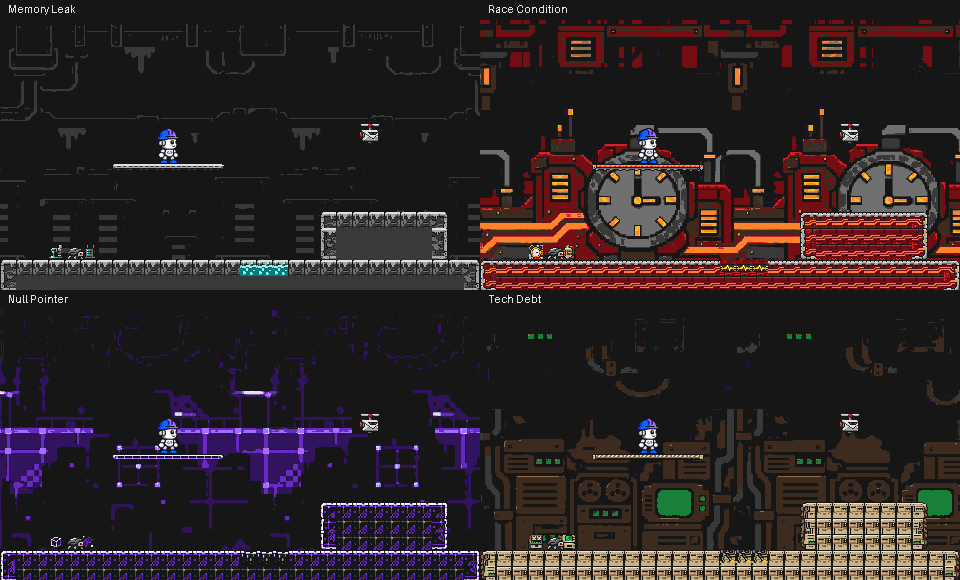
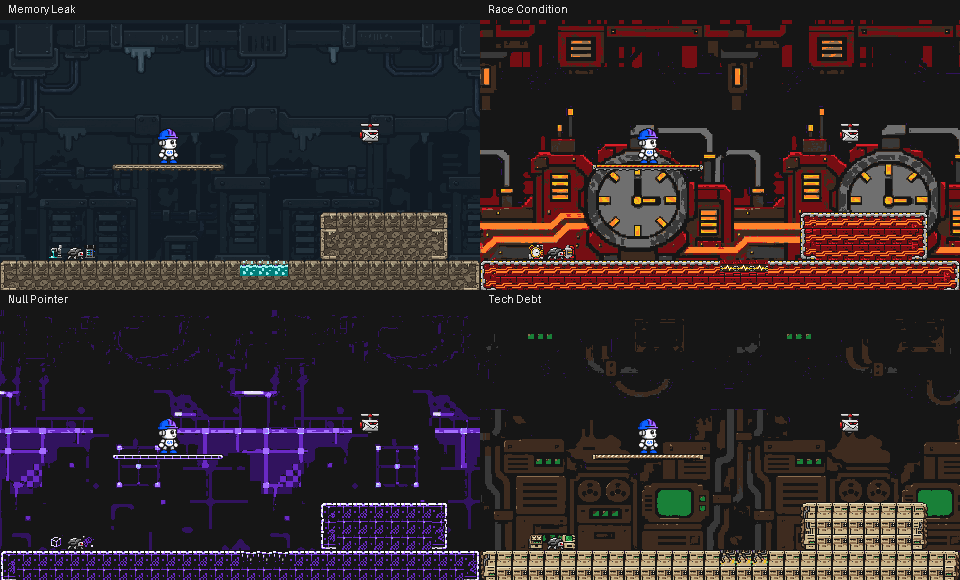
fix: restore T1 textures with a cool-warm palette (T21)
Replace the rejected flattening with injective color maps: blue-grey scenery, warm metal and unchanged teal hazards. Restore the original texture patterns and guard every tile and layer against tone merging or painted edges. Keep other stages, boss fixes and gameplay intact.

diff --git a/tools/review_memory_palette.py b/tools/review_memory_palette.py
@@ -1,0 +1,75 @@
+"""Compare T1 color topology with its textured baseline, then export palette review."""
+import io
+import json
+from pathlib import Path
+import subprocess
+
+from PIL import Image, ImageOps
+from memory_colors import BACKGROUND, METAL, MEMORY_PALETTE
+from sprites import pixels
+from ui_art import INK, ui_text
+
+ROOT = Path(__file__).resolve().parents[1]
+BASELINE = 'f4eb18a'  # Last committed T1 art before the rejected texture flattening.
+
+
+def signature(image):
+    ids = {}
+    return [ids.setdefault(pixel, len(ids)) for pixel in pixels(image)]
+
+
+def hex_color(rgb):
+    return '#' + ''.join(f'{c:02X}' for c in rgb)
+
+
+def run():
+    paths = sorted((ROOT / 'public/assets/bg').glob('t1_memory_leak_*.png'))
+    paths.append(ROOT / 'public/assets/tiles/tiles_memory_leak.png')
+    entries = []
+    for path in paths:
+        relative = path.relative_to(ROOT).as_posix()
+        original = subprocess.check_output(['git', 'show', BASELINE + ':' + relative], cwd=ROOT)
+        old, new = Image.open(io.BytesIO(original)).convert('RGBA'), Image.open(path).convert('RGBA')
+        if old.size != new.size or old.getchannel('A').tobytes() != new.getchannel('A').tobytes():
+            raise ValueError(relative + ': image geometry changed')
+        count = 24 if path.parent.name == 'tiles' else 1
+        for i in range(count):
+            width = 16 if count == 24 else new.width
+            box = (i * width, 0, (i + 1) * width, new.height)
+            if signature(old.crop(box)) != signature(new.crop(box)):
+                raise ValueError(f'{relative}[{i}]: texture pattern changed')
+        colors = {p[:3] for p in pixels(new) if p[3]}
+        if not colors <= MEMORY_PALETTE:
+            raise ValueError(relative + ': undeclared local color')
+        if count == 24:
+            if old.crop((256, 0, 272, 16)).tobytes() != new.crop((256, 0, 272, 16)).tobytes():
+                raise ValueError('Hazard pixels changed')
+        elif new.crop((0, 0, 1, new.height)).tobytes() != new.crop((511, 0, 512, new.height)).tobytes():
+            raise ValueError(relative + ': seam mismatch')
+        entries.append(dict(file=relative, colors=len(colors), texturePatternPreserved=True, alphaUnchanged=True))
+    export = ROOT / 'art/exports'
+    report = dict(stage='memoryLeak', textureBaselineCommit=BASELINE,
+                  texturePatternPreserved=True, checkedRegions=30, hazardPixelsUnchanged=True,
+                  roles=dict(background='blue-grey', metal='warm neutral', hazard='original teal'),
+                  palettePolicy='Local T1 color maps; default palette and other stages unchanged.',
+                  backgroundMapping={hex_color(a): hex_color(b) for a, b in BACKGROUND.items()},
+                  metalMapping={hex_color(a): hex_color(b) for a, b in METAL.items()}, layers=entries)
+    (export / 'memory-color-profile.json').write_text(json.dumps(report, indent=2) + '\n', encoding='utf-8')
+    comparison = Image.new('RGBA', (960, 580), INK)
+    for row, key in enumerate(['entrance', 'shaft']):
+        for col, version in enumerate(['before', 'after']):
+            capture = ROOT / ('art/preview/memory-contrast-' + version) / (key + '.png')
+            image = Image.open(capture).convert('RGBA').resize((480, 270), Image.Resampling.NEAREST)
+            x, y = col * 480, row * 290
+            label = ('VERSÃO REJEITADA' if col == 0 else 'TEXTURA RESTAURADA') + ' / ' + ('ENTRADA' if row == 0 else 'POÇO')
+            ui_text(comparison, (x + 8, y + 4), label, 10)
+            comparison.alpha_composite(image, (x, y + 20))
+            if row == 0 and col == 1:
+                image.save(export / 'megabob-memory-palette.png')
+    comparison.save(export / 'megabob-memory-contrast.png')
+    ImageOps.grayscale(comparison.convert('RGB')).save(export / 'megabob-memory-contrast-gray.png')
+    print('7 textures / 30 regions preserve the original texture pattern and alpha; comparisons exported.')
+
+
+if __name__ == '__main__':
+    run()

diff --git a/tools/memory_colors.py b/tools/memory_colors.py
@@ -1,11 +1,29 @@
-"""Memory Leak color roles: quiet scenery, steel contact edges, teal hazards."""
+"""Texture-preserving local palettes: blue-grey depth, warm metal, original teal hazards."""
+from palette import PALETTE
 from sprites import pixels
 
-INK = (22, 22, 22)
-SHADE = (57, 57, 57)
-STEEL = (111, 111, 111)
-LIGHT = (168, 168, 168)
-EDGE = (224, 224, 224)
+
+def color_map(warm=False):
+    """Keep every source tone distinct; never merge texture classes by brightness."""
+    result, used = {}, set()
+    for r, g, b in PALETTE:
+        light = .2126 * r + .7152 * g + .0722 * b
+        if warm:
+            color = (round(34 + .73 * light + .04 * r), round(28 + .68 * light + .03 * g),
+                     round(23 + .56 * light + .025 * b))
+        else:
+            color = (round(12 + .22 * light + .025 * r), round(20 + .26 * light + .025 * g),
+                     round(28 + .28 * light + .025 * b))
+        while color in used:
+            color = (color[0], color[1], color[2] + 1)
+        result[(r, g, b)] = color
+        used.add(color)
+    return result
+
+
+BACKGROUND = color_map()
+METAL = color_map(warm=True)
+MEMORY_PALETTE = set(PALETTE) | set(BACKGROUND.values()) | set(METAL.values())
 
 
 def luminance(rgb):
@@ -13,36 +31,20 @@ def luminance(rgb):
     return sum(c * weight for c, weight in zip(values, (.2126, .7152, .0722)))
 
 
-def background_color(rgb):
-    light = luminance(rgb)
-    return INK if light < .09 else SHADE
-
-
-def quiet_memory_layer(image):
+def recolor(image, colors):
     result = image.convert('RGBA').copy()
-    result.putdata([(*background_color((r, g, b)), a) for r, g, b, a in pixels(result)])
+    result.putdata([(*colors[(r, g, b)], a) if a else (r, g, b, a) for r, g, b, a in pixels(result)])
     return result
 
 
+def quiet_memory_layer(image):
+    return recolor(image, BACKGROUND)
+
+
 def memory_tiles(image):
-    """Color-only changes: preserve every alpha pixel and all frame indices."""
+    """One-to-one recoloring of existing pixels; no fills, new stripes or smoothing."""
     result = image.convert('RGBA').copy()
     for index in list(range(16)) + [17]:
-        for y in range(16):
-            for x in range(16):
-                r, g, b, a = image.getpixel((index * 16 + x, y))
-                if not a:
-                    continue
-                if index == 17:
-                    color = INK  # Background-wall stamps must not compete with platforms.
-                elif index == 1:
-                    color = SHADE  # Collapse the high-contrast repeated fill pattern.
-                else:
-                    value = luminance((r, g, b))
-                    color = INK if value < .012 else SHADE if value < .09 else STEEL if value < .3 else LIGHT
-                    if index in (0, 2, 3, 4, 5, 12, 13, 14) and y < 2:
-                        color = EDGE
-                    elif index == 15 and x in (0, 15):
-                        color = STEEL
-                result.putpixel((index * 16 + x, y), (*color, a))
+        box = (index * 16, 0, (index + 1) * 16, 16)
+        result.paste(recolor(image.crop(box), BACKGROUND if index == 17 else METAL), box[:2])
     return result

diff --git a/tools/test_memory_colors.py b/tools/test_memory_colors.py
@@ -1,28 +1,38 @@
 """Protect visual color roles and collision-independent sprite geometry."""
 import unittest
 from PIL import Image
-from memory_colors import quiet_memory_layer, memory_tiles, luminance, SHADE, EDGE
+from memory_colors import quiet_memory_layer, memory_tiles
+from palette import PALETTE
 from sprites import pixels
 
 
+def signature(image):
+    """Color-independent spatial pattern: equal input pixels must remain equal."""
+    ids = {}
+    return [ids.setdefault(pixel, len(ids)) for pixel in pixels(image)]
+
+
 class MemoryColorsTests(unittest.TestCase):
-    def test_scenery_cannot_reuse_bright_teal_hazard_or_bob_blue(self):
-        source = Image.new('RGBA', (3, 1))
-        source.putdata([(8, 189, 186, 255), (15, 98, 254, 255), (22, 22, 22, 0)])
+    def test_scenery_preserves_every_texture_tone_and_alpha(self):
+        source = Image.new('RGBA', (len(PALETTE), 2))
+        source.putdata([(*rgb, 255) for rgb in PALETTE] * 2)
+        source.putpixel((1, 1), (0, 0, 0, 0))
         result = quiet_memory_layer(source)
         self.assertEqual(result.getchannel('A').tobytes(), source.getchannel('A').tobytes())
-        self.assertTrue(all(luminance(pixel[:3]) <= luminance(SHADE) for pixel in pixels(result)))
-        self.assertGreater((luminance(EDGE) + .05) / (luminance(SHADE) + .05), 8)
+        self.assertEqual(signature(result), signature(source))
+        self.assertTrue(all(b > r for r, g, b, a in pixels(result) if a))
 
-    def test_fill_is_quiet_but_hazard_pixels_and_tile_alpha_are_exact(self):
-        source = Image.new('RGBA', (384, 16), (8, 189, 186, 255))
+    def test_every_tile_keeps_its_texture_without_painting_new_edges(self):
+        source = Image.new('RGBA', (384, 16))
+        source.putdata([(*PALETTE[i % len(PALETTE)], 255) for i in range(384 * 16)])
         source.putpixel((5, 5), (0, 0, 0, 0))
-        source.putpixel((18, 3), (224, 224, 224, 255))
         result = memory_tiles(source)
         self.assertEqual(result.getchannel('A').tobytes(), source.getchannel('A').tobytes())
-        self.assertEqual(set(pixels(result.crop((16, 0, 32, 16)))), {(*SHADE, 255)})
+        for i in range(24):
+            box = (i * 16, 0, (i + 1) * 16, 16)
+            self.assertEqual(signature(result.crop(box)), signature(source.crop(box)), f'tile {i}')
         self.assertEqual(result.crop((256, 0, 272, 16)).tobytes(), source.crop((256, 0, 272, 16)).tobytes())
-        self.assertEqual(result.getpixel((0, 0)), (*EDGE, 255))
+        self.assertTrue(all(r > b for r, g, b, a in pixels(result.crop((16, 0, 32, 16))) if a))
 
 
 if __name__ == '__main__':

diff --git a/tools/art.py b/tools/art.py
@@ -217,7 +217,7 @@ def backgrounds():
             key = source.stem[:-3].lower() + '_' + name
             entries.append(save_asset(layer, 'bg', key, (512, 224), source.relative_to(RAW).as_posix(),
                                       edgeMismatchBefore=before, edgeMismatchAfter=0,
-                                      **({'colorRoles': 'memory-steel-teal'} if stage == 'memory_leak' else {})))
+                                      **({'colorRoles': 'memory-cool-warm-textured'} if stage == 'memory_leak' else {})))
             layers.append(layer)
             wide = extend_view(layer, name)
             depth_adjusted = stage == 'tech_debt' and name != 'far'
@@ -228,7 +228,7 @@ def backgrounds():
             entries.append(save_asset(wide, 'bg', key + '_wide', (512, 270), source.relative_to(RAW).as_posix(),
                                       edgeMismatchBefore=0, edgeMismatchAfter=0, extendedFrom=key,
                                       anchor='top' if name == 'near' else 'bottom', depthAdjusted=depth_adjusted,
-                                      **({'colorRoles': 'memory-steel-teal'} if stage == 'memory_leak' else {})))
+                                      **({'colorRoles': 'memory-cool-warm-textured'} if stage == 'memory_leak' else {})))
             wide_layers.append(wide)
         repeat = Image.new('RGBA', (1024, 672), (25, 25, 34, 255))
         for i, layer in enumerate(layers):
@@ -364,7 +364,7 @@ def run(group='all'):
         if item.get('frame_fit'):
             entry['frameSizing'] = item['frame_fit']
         if item['key'] == 'tiles_memory_leak':
-            entry['colorRoles'] = 'memory-steel-teal'
+            entry['colorRoles'] = 'memory-cool-warm-textured'
         if item.get('top_frames'):
             entry['topAlignedFrames'] = item['top_frames']
         entries.append(entry)

diff --git a/docs/art-pipeline.md b/docs/art-pipeline.md
@@ -96,9 +96,11 @@ As doze camadas originais continuam em 512×224. Cada uma ganhou a variante de c
 
 ### Contraste da primeira fase
 
-`tools/memory_colors.py` aplica a hierarquia solicitada para Memory Leak: cenário em `#161616`/`#393939`, interiores de blocos em cinza uniforme e bordas de contato em `#E0E0E0`. Paredes decorativas perdem o padrão repetido de alto contraste. O verde-água dos perigos e ataques fica reservado aos elementos ativos; o quadro 16 do lodo mantém exatamente seus pixels anteriores. O remapeamento é feito depois da normalização, somente nas seis camadas T1 e em `tiles_memory_leak`, sem mudar dimensões, alpha, índices, colisões, outras fases ou fontes brutas. O manifesto registra `colorRoles: memory-steel-teal`.
+**Preservar a textura é requisito do usuário.** A primeira tentativa, que achatava o fundo e o interior dos blocos, foi rejeitada. `tools/memory_colors.py` agora usa mapas de cor bijetivos: azul acinzentado no fundo, metal quente nas superfícies e verde-água original nos perigos. Cada tom de entrada continua distinto; não se pintam faixas novas, não se preenchem regiões e não se suavizam detalhes. O quadro 16 do lodo permanece idêntico. A alteração atinge somente as seis camadas T1 e `tiles_memory_leak`; dimensões, alpha, índices, colisões, outras fases e fontes brutas são preservados. O manifesto registra `colorRoles: memory-cool-warm-textured`.
 
-Comparações da entrada e do poço: `art/exports/megabob-memory-contrast.png` e a versão `-gray.png`. Perfil medido em `memory-color-profile.json`: bordas claras têm razão de luminância de 8,75 para o tom mais claro do fundo. É uma medida da separação da arte, não uma certificação de acessibilidade. As quatro amostras reais (entrada, plataformas, poço e sala do chefe) podem ser capturadas em uma sessão isolada com `node tools/check-assets.mjs http://127.0.0.1:5173 --stage-colors=after`; `before` registra a referência antes de uma nova alteração. As capturas ficam em `art/preview/memory-contrast-{before,after}/` e não representam uma partida completa.
+As paletas locais ficam em `memory_colors.py`, sem ampliar os candidatos da quantização padrão nem afetar as outras fases. T1 usa 2/16/17 cores visíveis nas camadas FAR/MID/NEAR e 32 no strip de tiles completo (33 entradas contando transparência). O limite padrão de 29 continua nos demais assets. `py -3 tools/review_memory_palette.py` compara as assinaturas espaciais das 30 regiões com o commit `f4eb18a`, anterior ao achatamento: cores podem mudar, mas todos os padrões de pixels devem permanecer. O relatório `art/exports/memory-color-profile.json` inclui os mapas de cor e as verificações; o QA do pack está em `art/preview/gamedev_memory_palette_report.json`.
+
+Comparações da versão rejeitada com a restauração: `art/exports/megabob-memory-contrast.png` e a versão `-gray.png`; captura nativa atual em `megabob-memory-palette.png`. As quatro amostras reais (entrada, plataformas, poço e sala do chefe) são capturadas com `node tools/check-assets.mjs http://127.0.0.1:5173 --stage-colors=after`; `before` registra a referência antes da alteração. As capturas ficam em `art/preview/memory-contrast-{before,after}/`; o script de revisão precisa dessas capturas para regenerar a comparação e não representa uma partida completa.
 
 ### Sprites e apresentação dos chefes
 
@@ -108,7 +110,7 @@ O Memory Leak implementado estava preso no quadro 0. `src/systems/memoryLeakArt.
 
 Cinco testes unitários cobrem os quadros por estado. O helper `tools/check-boss-art.mjs` reproduziu as falhas antes da correção e confirmou os quadros 0–5, dano no 6 e a reutilização de bolhas/poças no Phaser. Relatório e screenshot em `art/preview/boss-art-runtime-report.json` / `browser-boss-memory-leak.png`; a cena de QA é descartável e não modifica o mapa jogável.
 
-O fundo magenta é removido com tolerância, preservando roxos e branco. Os strips usam alpha binário, nearest-neighbor e a paleta de `tools/palette.py`. Cada animação mantém uma escala compartilhada e a ancoragem declarada. Quadros vazios intencionais mantêm seus índices; vazios inesperados e recortes que excedam o quadro são erros.
+O fundo magenta é removido com tolerância, preservando roxos e branco. Os strips usam alpha binário, nearest-neighbor e a paleta padrão de `tools/palette.py`, com os mapas locais de T1 descritos acima. Cada animação mantém uma escala compartilhada e a ancoragem declarada. Quadros vazios intencionais mantêm seus índices; vazios inesperados e recortes que excedam o quadro são erros.
 
 Folhas com espaçamento irregular usam os intervalos de conteúdo; folhas de efeitos e tiles usam a grade declarada. Os tiles têm 16×16. Os fundos geram três camadas de 512×224 por fase: FAR com duas cores para preservar silhuetas, MID e NEAR com transparência. A correção de bordas garante igualdade entre as colunas inicial e final; as prévias repetidas permitem conferir a composição visual da emenda.
 

diff --git a/docs/HANDOFF.md b/docs/HANDOFF.md
@@ -59,7 +59,7 @@ Validação atual, incluindo contraste da primeira fase e apresentação do Memo
 - **Cenários para as fases:** tiles 0–11/15–17 ocupam seus 16×16; plataformas 12–14 ficam no topo e ocupam a largura, inclusive no alias `tiles_test`. Variantes de parallax `<chave_original>_wide` têm 512×270 e origem superior esquerda `(0,0)`. FAR/MID foram ancoradas embaixo e NEAR no alto, sem escalar; Tech Debt MID/NEAR usam tons mais escuros. Galeria `art/exports/megabob-environments.png`, quatro imagens de tema e `environment-art-layout.json`. As composições verificam arte; mapas e caminho crítico continuam sob as tarefas de fase.
 - **Armadura revisada:** enquadramento dentro dos 48×48, escala compartilhada no air dash, partículas neutras de `compile[0]` iguais nas 16 combinações e divisões anatômicas específicas de `dash[1,3]`. O relatório do Bob está sem avisos. Prévia em `art/preview/bob_parts_comparison.png`; detalhes em `art/REGENERATE.md`. Trabalho de combate da T7 preservado.
 - **Movimento revisado:** `py -3 tools/review_animations.py` verifica 145 strips / 594 quadros e exporta `art/exports/megabob-{idle,run,shoot}-review.gif`, comparando as 16 armaduras nos fps reais (3/12/8). Relatório `bob-animation-review.json`; contatos de sete grupos de poses em `art/preview/`. O smoke test confirmou 288 posições de quadro e 48 retornos de ciclo no Phaser. Nenhum novo recorte identificado nas poses conferidas; hashes dos PNGs brutos e de produção inalterados. A revisão não muda o ritmo do jogo nem aprova o Checkpoint 3 pelo usuário.
-- **Contraste T1 solicitado pelo usuário:** `tools/memory_colors.py` reduz o fundo a cinzas escuros, simplifica o interior dos blocos e clareia as bordas jogáveis; lodo preservado em verde-água. Alteração só de cores nas sete texturas processadas de Memory Leak, com alpha/tamanho/índices/emendas preservados. Comparação `art/exports/megabob-memory-contrast.png`, versão em cinza e `memory-color-profile.json`. Quatro enquadramentos reais conferidos, sem mudança no mapa ou movimento.
+- **Cores T1 — textura deve ser preservada:** o usuário rejeitou o achatamento da textura em `7392411`. Detalhes originais restaurados; `tools/memory_colors.py` agora usa mapas de cor bijetivos: fundo azul acinzentado, metal quente e lodo teal original. Paleta local só em T1, sem alterar a quantização das outras fases. `tools/review_memory_palette.py` confere 24 quadros e seis camadas contra `f4eb18a`: padrões de pixels/alpha preservados, sem faixas novas ou preenchimentos lisos. Comparação `art/exports/megabob-memory-contrast.png`, captura `megabob-memory-palette.png` e relatório `memory-color-profile.json`. Não remover textura para corrigir contraste.
 - **Chefes revisados a pedido do usuário:** `py -3 tools/review_bosses.py` confere 20 assets / 57 quadros e exporta contatos `boss-*-review.png`, GIF de idle do Memory Leak e `boss-art-review.json`. Corrigido o Memory Leak preso no quadro 0: seleção visual em `src/systems/memoryLeakArt.ts`, ligada aos estados já existentes, com cinco testes. Bolhas/poças animam e restauram textura/origem no pool. O helper `tools/check-boss-art.mjs` reproduziu as falhas e confirmou a correção no Phaser. Ataques, dano, tempos e dimensões das hitboxes preservados. Race Condition, Null Pointer e Tech Debt têm sprites revisados; integração de suas animações continua nas tarefas T14/T15/T18/T19.
 
 ## Problemas conhecidos

diff --git a/art/REGENERATE.md b/art/REGENERATE.md
@@ -25,6 +25,6 @@ HUD/pausa: moldura com canal transparente de 6×56, 28 segmentos separados e pai
 
 Cenários: blocos/bordas sem margens no quadro 16×16; plataformas finas alinhadas ao topo. Doze variantes 512×270 mantêm a escala, o alpha e as emendas horizontais; Tech Debt MID/NEAR têm contraste reduzido para o piso permanecer legível. Galeria em `art/exports/megabob-environments.png`, dados em `environment-art-layout.json`, repetições 3×3 e relatório do pack gamedev em `art/preview/`. Os PNGs brutos foram preservados; ambas as alturas de T1 recebem a revisão de cor abaixo.
 
-Contraste da Memory Leak revisado a pedido do usuário: fundo escuro/dessaturado, interiores sem o ruído repetido e contato das plataformas em cinza claro. O lodo conserva os pixels originais e se destaca do cenário. Comparação `art/exports/megabob-memory-contrast.png`, versão em cinza e perfil `memory-color-profile.json`. Mudaram apenas cores nas cópias processadas de T1; alpha, dimensões, emendas, mapas e fontes foram preservados.
+Memory Leak: o usuário rejeitou a redução de textura da primeira tentativa. A textura original foi restaurada com mapas de cor bijetivos: fundo azul acinzentado, metal quente e lodo teal original. `tools/review_memory_palette.py` confere a assinatura espacial dos 24 quadros de tiles e seis camadas contra a versão anterior ao achatamento. Não pintar faixas, juntar tons ou preencher padrões para corrigir contraste. Comparação `art/exports/megabob-memory-contrast.png`, captura `megabob-memory-palette.png` e perfil `memory-color-profile.json`. Alpha, dimensões, emendas, mapas e fontes preservados.
 
 Chefes: 20 assets / 57 quadros conferidos, sem novos recortes identificados nas folhas. O Memory Leak não selecionava seus quadros de ataque/mergulho; a seleção visual foi ligada aos estados existentes. Bolhas e poças agora animam e restauram textura/origem ao reutilizar o pool. Race Condition, Null Pointer e Tech Debt continuam como poses disponíveis para integração, sem simular animações de jogo ainda inexistentes. Contatos e relatório em `art/exports/boss-*-review.png` / `boss-art-review.json`; detalhes em `docs/art-pipeline.md`.

diff --git a/tasks/plan.md b/tasks/plan.md
@@ -89,9 +89,15 @@ Conferir os 145 strips do Bob sem alterar a jogabilidade. Ler sequências e fps 
 
 A pedido do usuário, separar as funções de cor da primeira fase: fundo escuro e dessaturado, piso metálico com interiores menos ruidosos e bordas claras, verde-água vivo reservado ao lodo/ataques. Aplicar remapeamentos determinísticos nas cópias processadas de T1, preservando alpha, dimensões, emendas, quadros, colisões e fontes. Conferir capturas antes/depois em seções reais, repetição dos tiles e contraste em escala de cinza. Registrar a transformação no pipeline e validar testes/build/navegador antes de commitar apenas a arte.
 
+Resultado de `7392411` rejeitado pelo usuário por eliminar textura. Substituído pela restauração e pelos mapas de cor bijetivos da etapa T21 abaixo; não reaplicar o achatamento.
+
 ### T4b — revisão dos chefes
 
 Pedido adicional do usuário: revisar sprites e animação dos quatro chefes. Conferir quadros, alpha, paleta, silhueta, ancoragem e transições; distinguir animações em uso de poses ainda sem integração. Corrigir problemas de arte no pipeline e ligar somente a seleção visual de quadros que estiver faltando no chefe já implementado, preservando IA, tempos, colisões e dano. Validar em uma cena de inspeção e registrar as limitações dos chefes que ainda não têm mecânica.
+
+### T21 — restaurar textura e recompor as cores de T1
+
+O usuário rejeitou a simplificação visual: restaurar a textura inteira a partir das fontes preservadas. Substituir o remapeamento que juntava tons e pintava faixas por paletas de cor bijetivas: fundo azul acinzentado, metal em tons quentes e perigos teal originais. Não alterar posições ou máscaras de pixels. Validar a assinatura espacial de cores de cada quadro e camada contra a versão anterior à simplificação, capturar os mesmos enquadramentos no Phaser e atualizar as comparações. Manter as correções dos chefes e o restante do jogo.
 
 ## Paralelização
 

diff --git a/tasks/todo.md b/tasks/todo.md
@@ -72,6 +72,7 @@ A cada lote novo em `art/raw/`, rodar o pipeline, revisar a prévia e registrar 
 - [x] Preparar fundo de encerramento 480×270, composição de Game Over e layouts para créditos/textos dinâmicos, preservando as fontes e o fluxo de cenas.
 - [x] Revisar os 145 strips do Bob, comparar os três ciclos reais nas 16 combinações de armadura e conferir as poses restantes, sem alterar o ritmo aprovado.
 - [x] Melhorar o contraste da Memory Leak: fundo menos saturado, superfícies jogáveis claras e lodo destacado, com comparações no jogo e fontes preservadas.
+- [x] Corrigir a composição rejeitada: restaurar todas as texturas de T1 e separar fundo/metal/perigos por paletas distintas, verificando os padrões originais quadro a quadro.
 - [x] Revisar sprites dos quatro chefes e corrigir a apresentação visual do Memory Leak sem alterar os padrões de ataque.
 
 As fontes em `art/raw/` permanecem intactas durante a importação. A logo anterior foi preservada e foram acrescentados fundos panorâmicos de título e encerramento; total atual de 68 PNGs brutos. A implementação reaproveita Python/Pillow instalado, sem novas dependências. As 123 saídas ficam em `public/assets/`, com prévias e relatórios em `art/preview/`. Veja `docs/art-pipeline.md`.
